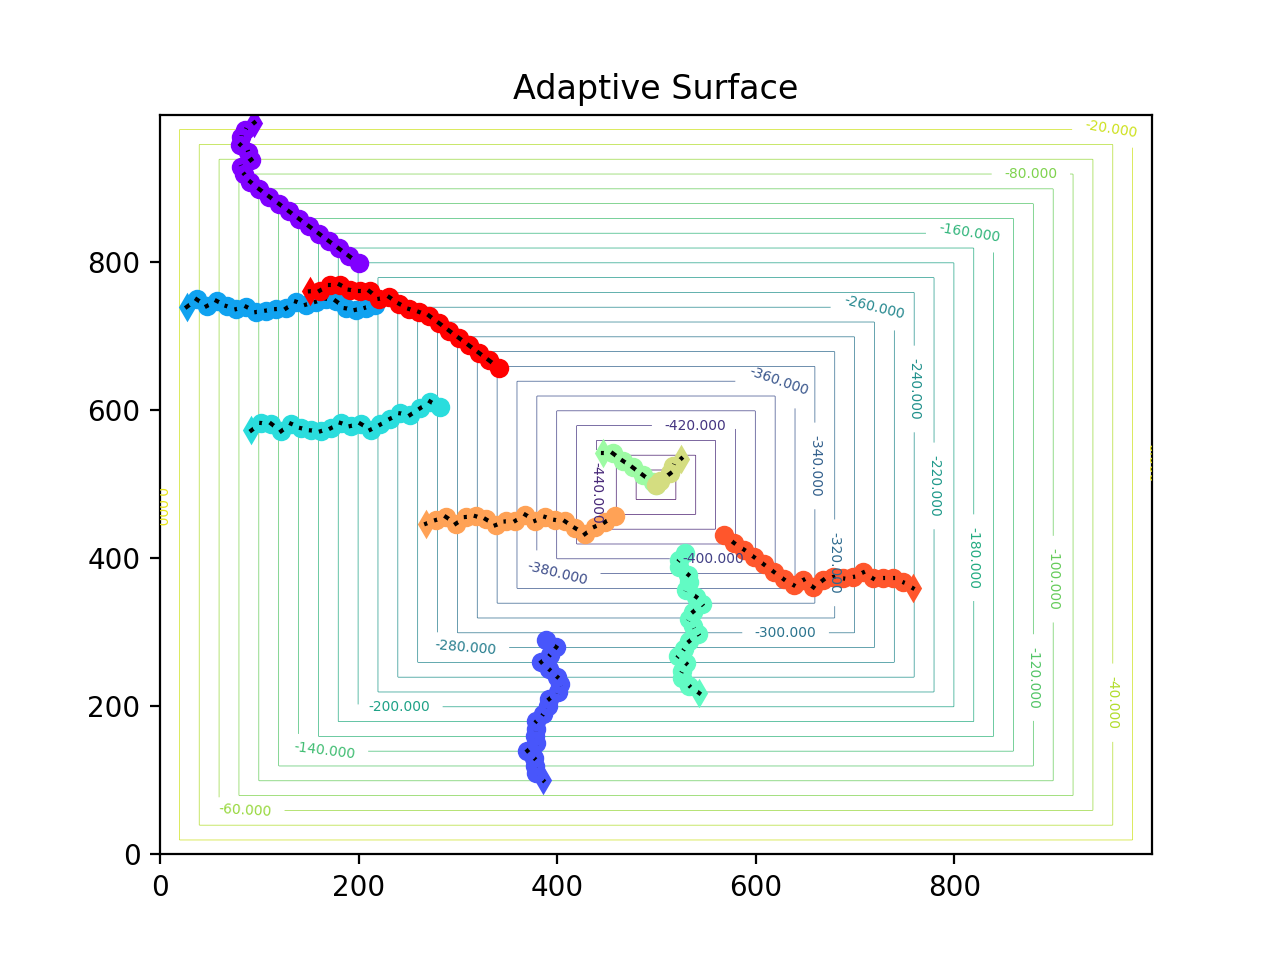
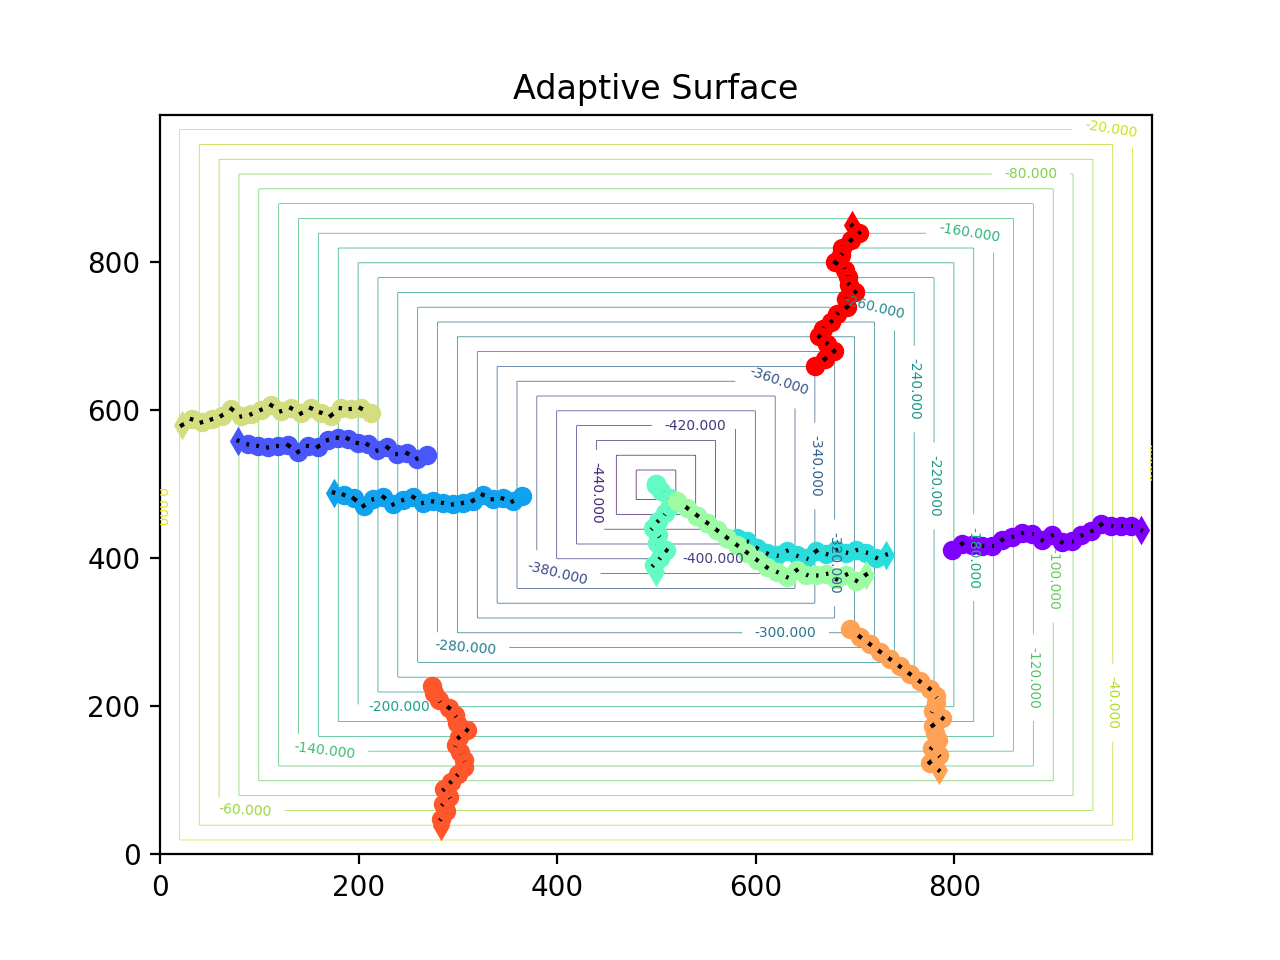
Added new functions
Function ind_evol added. All functions can now be saved under a custom name.

diff --git a/3d_window_descent.py b/3d_window_descent.py
@@ -12,6 +12,7 @@ import numpy as np
 import plotly.graph_objects as go
 import plotly
 import os
+import time
 
 #Boundary array function
 def min_dims(row_val,col_val,w_size,arr):
@@ -129,81 +130,18 @@ def gradient_descent_3d(array,x_start,y_start,steps=10,step_size=1,plot=True):
             break
     return step_vals,step_history
 
-#Main looping function to iterate through runs
-def ind_evol(runs,steps=10,step_size=10):
-    path  = os.getcwd()
-    array = np.load(path + '/surface.npy')
-    step_size = step_size
-    steps = steps
-    runs = runs
-    
-    #Initalize starting point for each run
-    run_vals = [] #Save starting ooints
-    
-    #Initiates plot
-    fig, ax = plt.subplots()
-    CS = ax.contour(np.arange(0,array.shape[0]), np.arange(0,array.shape[1]),array,levels = 25, linewidths = 0.25)
-    ax.clabel(CS, inline=True, fontsize=5)
-    ax.set_title('Adaptive Surface')
-    
-    color=iter(plt.cm.rainbow(np.linspace(0,1,runs))) #set colors
-    
-    #Save all values from steps in array
-    master_arr_steps = np.empty((steps+1,runs),dtype='int,int')
-    master_arr_vals = np.empty((steps+1,runs),dtype='int')
-    
-    for j in range(runs): #5 will be replaced with runs
-        x_start = randrange(0,array.shape[0]-1)
-        y_start = randrange(0,array.shape[1]-1)
-        run_vals.append((x_start,y_start))
-        
-        c = next(color)
-        
-        plt.plot(y_start,x_start,'ro',c=c, marker = "d")
-        
-    master_arr_steps[0] = run_vals
-    master_arr_vals[0] = np.zeros(5)
-        
-    for i in np.arange(1,steps+1): #Iterate number of steps for each run
-            
-        new_vals = []
-        new_step = []
-    
-        for j in master_arr_steps[i-1]: #Iterates each individual run per step
-            
-            prev_x = j[0]
-            prev_y = j[1]
-            center = (prev_x,prev_y)
-            step = sliding_window(array,step_size,center)
-            vals = array[step[0],step[1]]
-            # Update current point to now be the next point after stepping
-            current_x, current_y = (step[0],step[1])
-            #Record step
-            new_step.append(step) #local
-            new_vals.append(vals) #local
-            
-            past_x = prev_x
-            past_y = prev_y
-            
-            next_x = current_x
-            next_y = current_y
-            
-            plt.plot([past_y,next_y],[past_x,next_x],'k-', c='black')
-            plt.plot(next_y,next_x,'ro', c=c, marker = "o")
-            plt.pause(0.05)
-            
-        master_arr_steps[i] = new_step #global
-        master_arr_vals[i] = new_vals #global
 
 class Core_Functions(object):
     
     #Create square 3D surface
-    def square_surface(self, array_size = 1000, plot = False):
+    def square_surface(self, name, array_size = 1000, plot = False):
         '''
         Creates adaptive surface
 
         Parameters
         ----------
+        name: TYPE, str
+            Name of saved surface, must be a string.
         array_size : TYPE, int
             DESCRIPTION. The default is 1000. int value specifies square dimensions of surface. Must be single value.
         plot : TYPE, boolean
@@ -215,6 +153,7 @@ class Core_Functions(object):
             DESCRIPTION. Input array for iter_movement function
 
         '''
+        name = name
         N = array_size
         # the x and y coordinate of the center point
         center_arr = (N - 1) / 2
@@ -238,7 +177,8 @@ class Core_Functions(object):
             topo.update_traces(contours_z=dict(show=True, usecolormap=True,
                                   highlightcolor="limegreen", project_z=True))
             plotly.offline.plot(topo)
-        np.save('surface.npy',new_surface)
+        save_name = name + '.npy'
+        np.save(save_name,new_surface)
         return new_surface
     
     #Iterate through many runs
@@ -301,6 +241,121 @@ class Core_Functions(object):
             plt.savefig('evolution_surface.png')
         plt.show()
         return print('All finished!')
+    
+    
+    #Main looping function to iterate through runs
+    def ind_evol(self, name, runs, steps=10, step_size=10, plot_model = False, plot_rate = 0.05):
+        '''
+        Evolution towards optima calculated at each step
+    
+        Parameters
+        ----------
+        name : TYPE, str
+            Name of saved surface, must be a string.
+        runs : TYPE, int
+            Select number of individuals to include in analysis.
+        steps : TYPE, int
+            The default is 10. Number of steps individual will take.
+        step_size : TYPE, int
+            The default is 10. Size of each step.
+        plot_model: TYPE, Boolean
+            Plots model runs
+        plot_rate: TYPE, numeric
+            Rate to update plot for each run. For large run values suggest very small vales. Default = 0.05 seconds.
+    
+        Returns
+        -------
+        Steps Taken: TYPE Array
+            Array of steps taken by each individual. m X n array correspounds to steps (row) X runs (column)
+        Step Values: TYPE Array
+            Array of values for each step towards the optima. Demensions are the same as Steps Taken array.
+    
+        '''
+        start_time = time.time()
+        
+        name = name
+        path  = os.getcwd()
+        array = np.load(path + '/surface.npy')
+        step_size = step_size
+        steps = steps
+        runs = runs
+        plot_rate = plot_rate
+        
+        if runs > 10 and plot_model:
+            print("Warning: Plotting large runs will take a long time")
+        
+        #Initalize starting point for each run
+        run_vals = [] #Save starting ooints
+        
+        #Initiates plot
+        if plot_model:
+            fig, ax = plt.subplots()
+            CS = ax.contour(np.arange(0,array.shape[0]), np.arange(0,array.shape[1]),array,levels = 25, linewidths = 0.25)
+            ax.clabel(CS, inline=True, fontsize=5)
+            ax.set_title('Adaptive Surface')
+            
+            color=iter(plt.cm.rainbow(np.linspace(0,1,runs))) #set colors
+        
+        #Save all values from steps in array
+        master_arr_steps = np.empty((steps+1,runs),dtype='int,int')
+        master_arr_vals = np.empty((steps+1,runs),dtype='int')
+        color_list = []
+        for j in range(runs): #5 will be replaced with runs
+            x_start = randrange(0,array.shape[0]-1)
+            y_start = randrange(0,array.shape[1]-1)
+            run_vals.append((x_start,y_start))
+            
+            if plot_model:
+                c = next(color)
+                color_list.append(c)
+                
+                plt.plot(y_start,x_start,'ro',c=c, marker = "d")
+            
+        master_arr_steps[0] = run_vals
+        master_arr_vals[0] = np.zeros(runs)
+            
+        for i in np.arange(1,steps+1): #Iterate number of steps for each run
+                
+            new_vals = []
+            new_step = []
+        
+            for idx2, j in enumerate(master_arr_steps[i-1]): #Iterates each individual run per step
+                
+                prev_x = j[0]
+                prev_y = j[1]
+                center = (prev_x,prev_y)
+                step = sliding_window(array,step_size,center)
+                vals = array[step[0],step[1]]
+                # Update current point to now be the next point after stepping
+                current_x, current_y = (step[0],step[1])
+                #Record step
+                new_step.append(step) #local
+                new_vals.append(vals) #local
+                
+                past_x = prev_x
+                past_y = prev_y
+                
+                next_x = current_x
+                next_y = current_y
+                
+                if plot_model:
+                    plt.plot([past_y,next_y],[past_x,next_x],'k-', c='black')
+                    plt.plot(next_y,next_x,'ro', c=color_list[idx2], marker = "o")
+                    plt.pause(plot_rate)
+                
+            master_arr_steps[i] = new_step #global
+            master_arr_vals[i] = new_vals #global
+        
+        if plot_model:
+            plt.savefig('Ind_evol.png')
+            
+        save_name_steps = name + '_steps.npy'
+        save_name_values = name + '_values.npy'
+        np.save(save_name_steps,master_arr_steps)
+        np.save(save_name_values,master_arr_vals)
+        print("--- Model run time %s seconds ---" % (time.time() - start_time))
+            
+        return master_arr_steps,master_arr_vals
                 
 if __name__ == '__main__':
     core_functions = Core_Functions()
